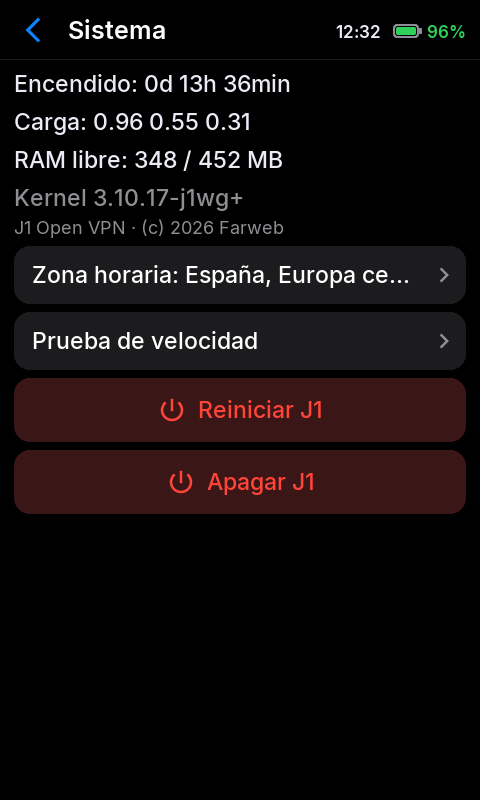
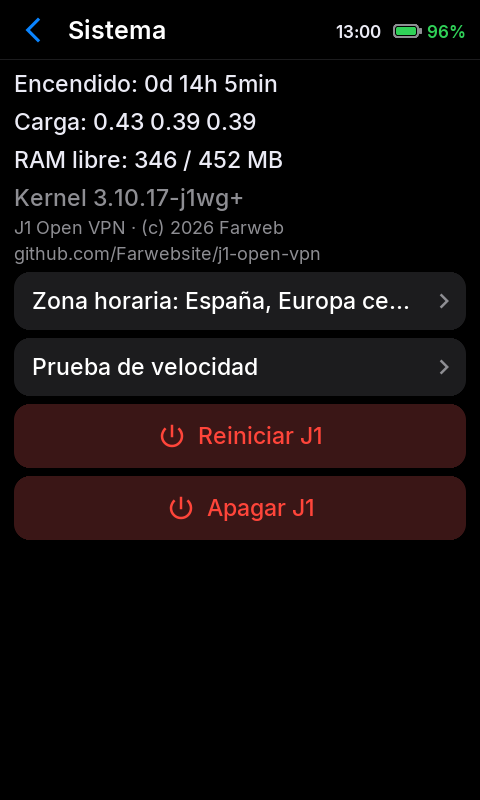
Footer with the project GitHub address (screen and web panel)

diff --git a/rootfs/overlay/usr/local/lib/j1/web.py b/rootfs/overlay/usr/local/lib/j1/web.py
@@ -448,7 +448,7 @@ def page(message=''):
         out.append('<tr><td>'+esc(c['name'])+'</td><td>10.66.0.'+str(c['ip'])+'</td><td><a href="/client/'+c['id']+'.conf">Descargar .conf</a><form method=post>'+hidden()+'<input type=hidden name=action value=delete><input type=hidden name=id value="'+c['id']+'"><button class=danger>Quitar cliente</button></form></td></tr>')
     out+=['</table><form method=post>'+hidden()+'<input type=hidden name=action value=client><label>Nombre del nuevo cliente<input name=name maxlength=64 required placeholder="Mi móvil"></label><button>Crear cliente</button></form><p><small>El perfil contiene claves privadas. Al quitar un cliente, su acceso se revoca en el servidor.</small></p></section>']
     checked=' checked' if cf.get('enabled') else ''
-    out+=['<section id=dns><h2>Cloudflare · DNS dinámico</h2><p>'+esc(RUNTIME['ddns'])+'</p><form method=post>'+hidden()+'<input type=hidden name=action value=dns><label><input type=checkbox name=enabled value=1'+checked+'> Actualizar automáticamente el registro DNS</label><label>Nombre completo del registro<input name=hostname value="'+esc(cf.get('hostname',''))+'" placeholder="vpn2.tudominio.com"></label><label>ID de zona de Cloudflare<input name=zone_id value="'+esc(cf.get('zone_id',''))+'" maxlength=32></label><label>Token API<input type=password name=token autocomplete=new-password placeholder="'+('Guardado; deja vacío para conservarlo' if cf.get('token') else 'Token con permiso DNS:Editar en esta zona')+'"></label><small>El registro A se crea o actualiza en modo Solo DNS, sin proxy naranja. Revisión cada 5 minutos. No se conecta a Cloudflare hasta que actives esta opción.</small><br><button>Guardar Cloudflare</button></form></section>'+ssh_section()+'<footer><small>Acceso externo: el router debe redirigir el puerto UDP al J1. El DNS dinámico no elimina CG-NAT. La VPN proporciona salida IPv4; el perfil dirige IPv6 al túnel para evitar salida directa.</small><p><small>'+BRAND+'</small></footer></html>']
+    out+=['<section id=dns><h2>Cloudflare · DNS dinámico</h2><p>'+esc(RUNTIME['ddns'])+'</p><form method=post>'+hidden()+'<input type=hidden name=action value=dns><label><input type=checkbox name=enabled value=1'+checked+'> Actualizar automáticamente el registro DNS</label><label>Nombre completo del registro<input name=hostname value="'+esc(cf.get('hostname',''))+'" placeholder="vpn2.tudominio.com"></label><label>ID de zona de Cloudflare<input name=zone_id value="'+esc(cf.get('zone_id',''))+'" maxlength=32></label><label>Token API<input type=password name=token autocomplete=new-password placeholder="'+('Guardado; deja vacío para conservarlo' if cf.get('token') else 'Token con permiso DNS:Editar en esta zona')+'"></label><small>El registro A se crea o actualiza en modo Solo DNS, sin proxy naranja. Revisión cada 5 minutos. No se conecta a Cloudflare hasta que actives esta opción.</small><br><button>Guardar Cloudflare</button></form></section>'+ssh_section()+'<footer><small>Acceso externo: el router debe redirigir el puerto UDP al J1. El DNS dinámico no elimina CG-NAT. La VPN proporciona salida IPv4; el perfil dirige IPv6 al túnel para evitar salida directa.</small><p><small>'+BRAND+' · <a href="https://'+REPO+'">'+REPO+'</a></small></footer></html>']
     return ''.join(out).encode()
 
 class Handler(http.server.BaseHTTPRequestHandler):
@@ -714,6 +714,7 @@ def ui_res(arg):
     return s.small('% de CPU sobre el total de los 2 núcleos (el segundo solo se enciende con carga). Esta vista solo mide mientras está abierta.','m')
 
 BRAND='J1 Open VPN · © 2026 Farweb'
+REPO='github.com/Farwebsite/j1-open-vpn'
 def ui_home():
     s=Screen('home','J1 · Servidor VPN','',3)
     ok=lambda t:'g' if re.search(r'\d+\.\d+\.\d+\.\d+',t) else 'y'
@@ -726,7 +727,7 @@ def ui_home():
     for a,t in (('wifi','Wi-Fi'),('ap','Red de configuración'),('vpn','WireGuard'),('dns','Cloudflare DNS'),('usb','Cable USB'),
                 ('speed','Velocidad'),('res','Recursos'),('disp','Pantalla'),('logs:sys','Registros'),('sys','Sistema')):
         s.tile('nav:'+a,t,a.split(':')[0])
-    return s.gap().small(BRAND,'m')
+    return s.small(BRAND,'m').small(REPO,'m')
 
 def ui_wifi(arg):
     on=not (STATE/'wifi-off').exists()
@@ -891,7 +892,7 @@ def ui_sys(arg):
         s.label('Encendido: %dd %dh %dmin'%(up//86400,up%86400//3600,up%3600//60)).label('Carga: '+' '.join(load))
         s.label('RAM libre: %d / %d MB'%(mem.get('MemAvailable',mem.get('MemFree',0))//1024,mem['MemTotal']//1024))
     except (OSError,KeyError,ValueError):pass
-    s.label('Kernel '+os.uname().release,'m').small(BRAND,'m')
+    s.label('Kernel '+os.uname().release,'m').small(BRAND,'m').small(REPO,'m')
     s.button('nav:tz','Zona horaria: '+tz_name(),'i')
     s.button('nav:speed','Prueba de velocidad','i')
     return s.button('nav:reboot','Reiniciar J1','d','power').button('nav:poweroff','Apagar J1','d','power')

diff --git a/rootfs/display/j1-display.c b/rootfs/display/j1-display.c
@@ -168,7 +168,7 @@ struct el { char t, *a, *b, *c, *d; int y, h, dirty, col, pg; char val[160]; };
 #define TILE_H 136
 static int tile_w(void) { return (SW - 2 * PAD - TGAP) / 2; }
 /* the tiles go in pages swiped sideways; page_dx = finger offset while dragging */
-#define DOTS_H 30
+#define DOTS_H 26
 static int page, npages = 1, page_dx, tiles_y, tiles_h;
 static int tile_x(const struct el *e) { return PAD + e->col * (tile_w() + TGAP) + (e->pg - page) * SW + page_dx; }
 static struct el els[MAXEL];
@@ -500,7 +500,7 @@ static void render(void) {
 		}
 	}
 	if (npages > 1) {   /* page dots under the tiles */
-		int dy = TOP + tiles_y + tiles_h - scroll + 8, dx = SW / 2 - (npages * 22 - 12) / 2;
+		int dy = TOP + tiles_y + tiles_h - scroll + 6, dx = SW / 2 - (npages * 22 - 12) / 2;
 		for (int p = 0; p < npages; p++) rrect(dx + p * 22, dy, 10, 10, 5, p == page ? C_WHITE : C_KEY);
 	}
 	clip0 = 0; clip1 = SH;

diff --git a/tests/test_j1_web.py b/tests/test_j1_web.py
@@ -51,7 +51,7 @@ class Tests(unittest.TestCase):
  def test_ui_home_cp437_and_buttons(self):
   (app.RUN/'wifi-summary').write_text('Wi-Fi: 10.10.1.24\n')
   out=app.ui_request(b'a=nav%3Ahome')
-  self.assertTrue(out.startswith(b'T\thome\t'));self.assertIn(b'C\tnav:wifi\tWi-Fi\twifi\n',out);self.assertIn(b'C\tnav:logs:sys\tRegistros\tlogs\n',out);self.assertIn(b'L\tWi-Fi: 10.10.1.24\tg',out)
+  self.assertTrue(out.startswith(b'T\thome\t'));self.assertIn(b'C\tnav:wifi\tWi-Fi\twifi\n',out);self.assertIn(b'C\tnav:logs:sys\tRegistros\tlogs\n',out);self.assertIn(b'l\tgithub.com/Farwebsite/j1-open-vpn\tm\n',out);self.assertIn(b'L\tWi-Fi: 10.10.1.24\tg',out)
   self.assertIn('Red de configuración'.encode('cp437'),out)
  def test_ui_error_stays_on_screen(self):
   with patch.object(app,'command',side_effect=RuntimeError('x')):
